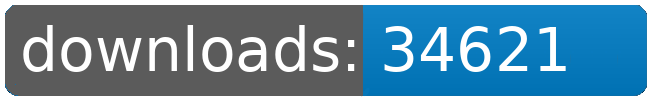
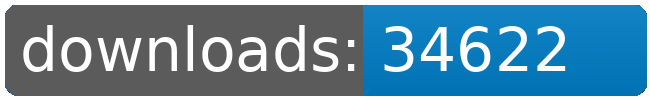
dl log written

Changed region(s): [[0.8, 0.24, 0.8923, 0.66], [0.8, 0.66, 0.8308, 0.69]]

diff --git a/README.md b/README.md
@@ -43,8 +43,8 @@
 		<td>5121</td>
 		<td>5146</td>
 		<td>5170</td>
-		<td>5196</td>
-		<td>+ 26</td>
+		<td>5197</td>
+		<td>+ 27</td>
 	</tr>
 	<tr>
 		<td>Jaws</td>
@@ -109,8 +109,8 @@
 		<td></td>
 		<td></td>
 		<td></td>
-		<td>34621</td>
-		<td>162</td>
+		<td>34622</td>
+		<td>163</td>
 	</tr>
 </table>
 </sub></sup>
@@ -135,8 +135,8 @@
 		<td>5121</td>
 		<td>5146</td>
 		<td>5170</td>
-		<td>5196</td>
-		<td>+ 26</td>
+		<td>5197</td>
+		<td>+ 27</td>
 	</tr>
 	<tr>
 		<td>Louise.Conglomerate.Shipyards</td>
@@ -223,8 +223,8 @@
 		<td></td>
 		<td></td>
 		<td></td>
-		<td>34621</td>
-		<td>162</td>
+		<td>34622</td>
+		<td>163</td>
 	</tr>
 </table>
 </sub></sup>
